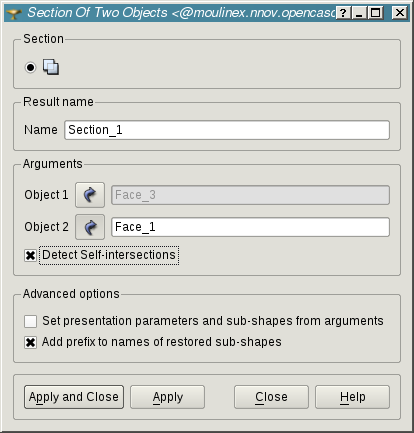
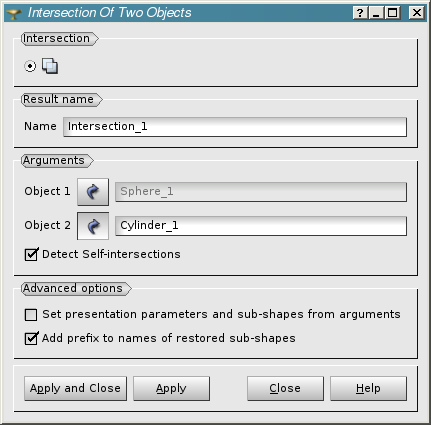
0022756: [EDF] Intersection operation - Rename "Section" operation to "Intersection"

Changed region(s): [[0.0, 0.0, 1.0, 0.9788]]

diff --git a/src/GEOMGUI/GEOM_msg_en.ts b/src/GEOMGUI/GEOM_msg_en.ts
@@ -1674,11 +1674,11 @@ Please, select face, shell or solid and try again</translation>
     </message>
     <message>
         <source>GEOM_SECTION</source>
-        <translation>Section</translation>
+        <translation>Intersection</translation>
     </message>
     <message>
         <source>GEOM_SECTION_TITLE</source>
-        <translation>Section Of Two Objects</translation>
+        <translation>Intersection Of Two Objects</translation>
     </message>
     <message>
         <source>GEOM_SELECTED_FACE</source>
@@ -2986,7 +2986,7 @@ Please, select face, shell or solid and try again</translation>
     </message>
     <message>
         <source>MEN_SECTION</source>
-        <translation>Section</translation>
+        <translation>Intersection</translation>
     </message>
     <message>
         <source>MEN_SELECT_ONLY</source>
@@ -3874,7 +3874,7 @@ Please, select face, shell or solid and try again</translation>
     </message>
     <message>
         <source>STB_SECTION</source>
-        <translation>Section</translation>
+        <translation>Intersection</translation>
     </message>
     <message>
         <source>STB_SEWING</source>
@@ -4458,7 +4458,7 @@ Please, select face, shell or solid and try again</translation>
     </message>
     <message>
         <source>TOP_SECTION</source>
-        <translation>Section</translation>
+        <translation>Intersection</translation>
     </message>
     <message>
         <source>TOP_SEWING</source>
